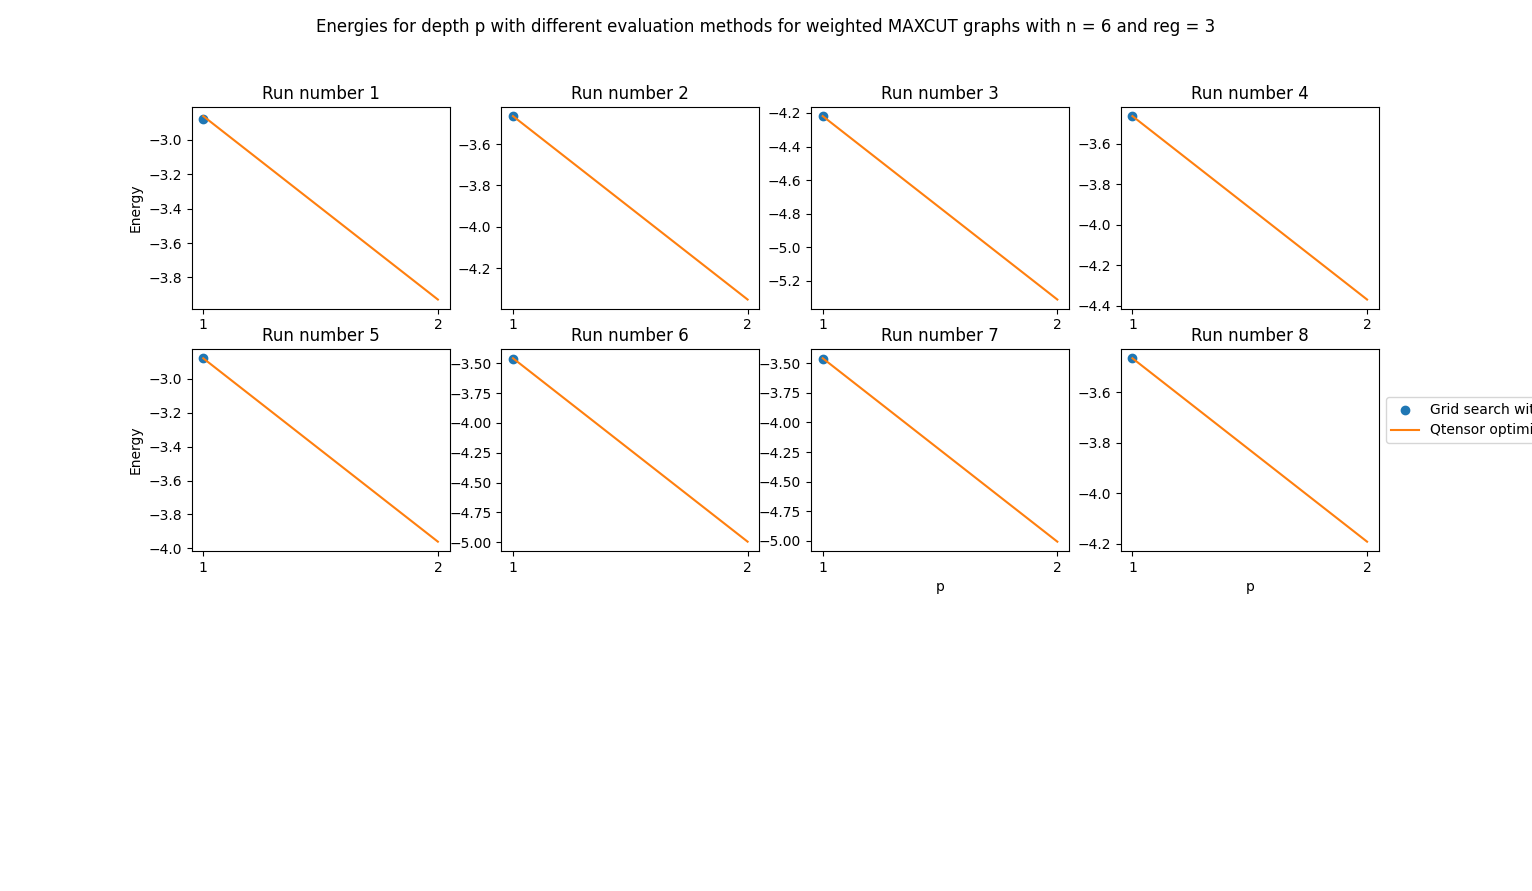
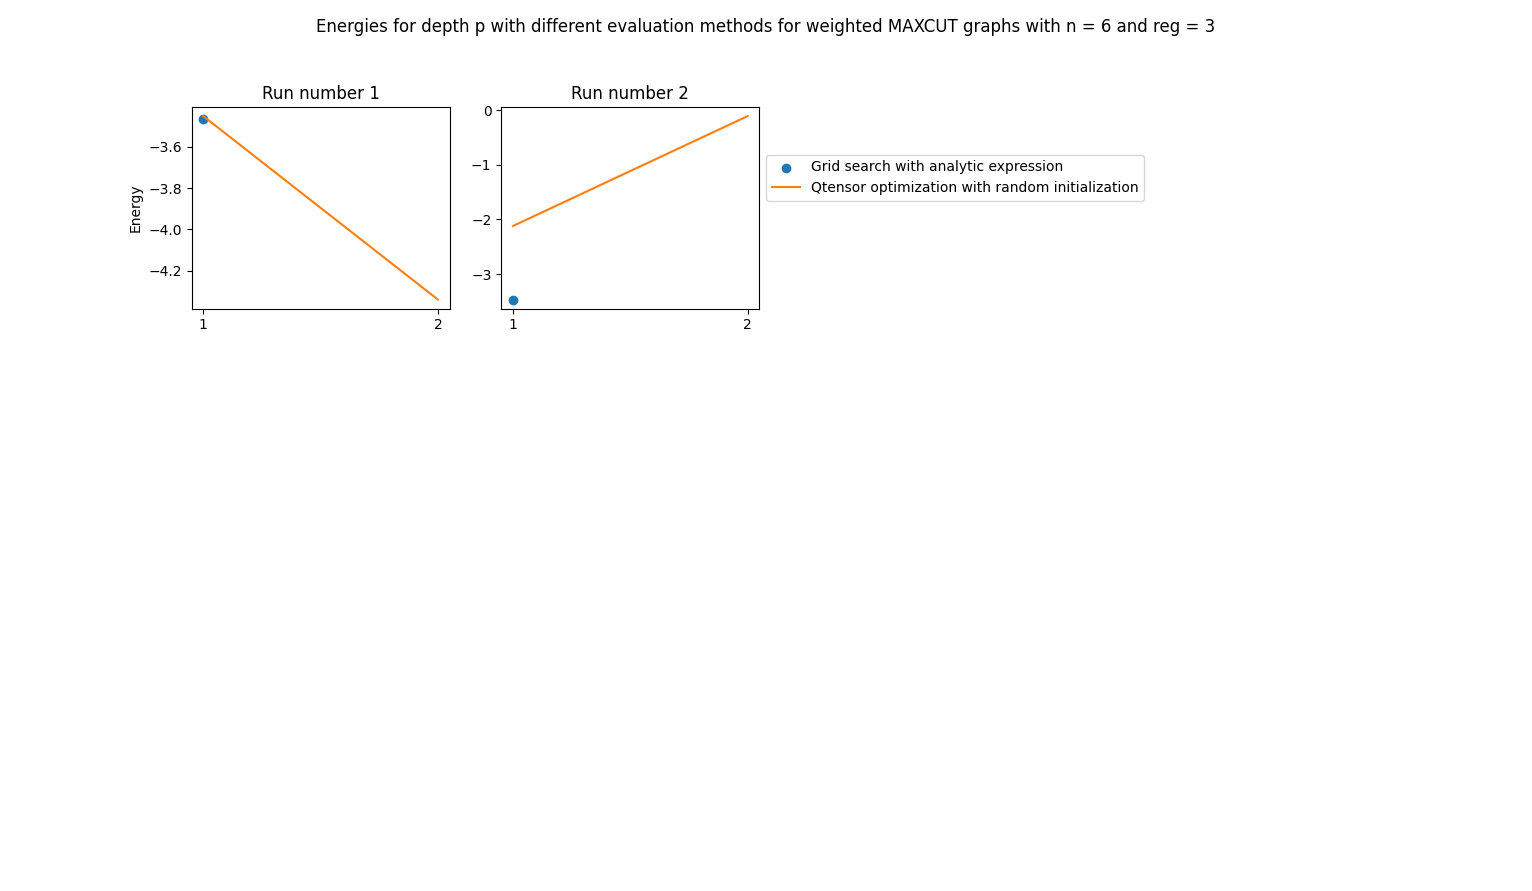
implement optimization stop

diff --git a/Calculating_Expectation_Values.py b/Calculating_Expectation_Values.py
@@ -4,6 +4,7 @@ import itertools as it
 import copy
 from scipy.optimize import fsolve
 import qtensor
+import json
 import torch
 import random
 
@@ -641,18 +642,29 @@ class QtensorQAOAExpectationValuesMAXCUT(ExpectationValues):
 class QtensorQAOAExpectationValuesQUBO(ExpectationValues):
     """Calculation of expectation values via tensor network contraction using Qtensor"""
 
-    def __init__(self, problem, p, pbar=True, gamma=None, beta=None, backend=qtensor.contraction_backends.TorchBackend(), ordering_algo='greedy'):
+    def __init__(self, problem, p, pbar=True, gamma=None, beta=None, initialization='random', regularity=3, opt=torch.optim.RMSprop, opt_kwargs=dict(lr=0.001), backend=qtensor.contraction_backends.TorchBackend(), ordering_algo='greedy'):
         super().__init__(problem)
         random.seed()
 
-        if gamma == None:
-            #gamma=[0.1] * p
-            gamma=[random.uniform(0, 0.5)]*p
+        if initialization=='fixed_angles_optimization':
+            with open('angles_regular_graphs.json', 'r') as file:
+                data = json.load(file)
 
-        if beta == None:
-            #beta=[0.1] * p
-            beta=[random.uniform(0, 0.5)]*p
+            gamma, beta = data[f"{regularity}"][f"{p}"]["gamma"], data[f"{regularity}"][f"{p}"]["beta"]
+            gamma, beta = [value/(-2*np.pi) for value in gamma], [value/(2*np.pi) for value in beta]
+            print('is working')
 
+        else:
+            if gamma == None:
+                #gamma=[0.1] * p
+                gamma=[random.uniform(0, 0.5)]*p
+
+            if beta == None:
+                #beta=[0.1] * p
+                beta=[random.uniform(0, 0.5)]*p
+
+        self.opt = opt
+        self.opt_kwargs = opt_kwargs
         self.pbar=pbar
         self.p = p
         self.backend = backend
@@ -737,9 +749,9 @@ class QtensorQAOAExpectationValuesQUBO(ExpectationValues):
         return max_expect_val_location, max_expect_val_sign, max_expect_val
     
 
-    def optimize(self, steps=50, Opt = torch.optim.RMSprop, opt_kwargs=dict(), **kwargs):
+    def optimize(self, steps=50, **kwargs):
         random.seed()
-        opt = Opt(params=(self.gamma, self.beta) , **opt_kwargs)
+        opt = self.opt(params=(self.gamma, self.beta) , **self.opt_kwargs)
         self.peos = self.energy_peo()
         self.expect_val_dict = {}
         max_expect_val_location = None
@@ -757,17 +769,27 @@ class QtensorQAOAExpectationValuesQUBO(ExpectationValues):
         else:
             _pbar = None
 
+        counter = 0
         for i in range(self.steps):
             self.energy_loss()
 
             opt.zero_grad()
             self.loss.backward()
             opt.step()
-
-            self.losses.append(self.loss.detach().numpy().data)
+            
+            self.losses.append(float(self.loss))
+            #self.losses.append(self.loss.detach().numpy().data)
             self.param_history.append([x.detach().numpy().copy() for x in (self.gamma, self.beta)])
             if self.pbar:
                 _pbar.update(1)
+
+            if i>1:
+                if abs((self.losses[-1]-self.losses[-2])/self.losses[-1]) < 0.0005:
+                    counter += 1
+                    if counter == 5:
+                        break
+                else:
+                    counter == 0
         
         max_expect_val_location, max_expect_val_sign, max_expect_val = self.create_expect_val_dict()
         self.energy = self.loss

diff --git a/Experiments/MAXCUT_RQAOA/test_run.py b/Experiments/MAXCUT_RQAOA/test_run.py
@@ -30,12 +30,13 @@ from RQAOA import RQAOA
 import torch.multiprocessing as mp
 from time import time
 
-def execute_RQAOA_single_instance(n, p):
+def execute_RQAOA_single_instance(n, p, run):
     reg = 3
     seed = 666
-    G = nx.random_regular_graph(reg, n, seed=seed)
+    random.seed()
+    G = nx.random_regular_graph(reg, n)
     problem = Generator.MAXCUT(G)
-    expectation_values_qtensor = QtensorQAOAExpectationValuesQUBO(problem, p)
+    expectation_values_qtensor = QtensorQAOAExpectationValuesQUBO(problem, p, initialization='fixed_angle_initialization', opt=torch.optim.SGD, opt_kwargs=dict(lr=0.0001))
     RQAOA_qtensor = RQAOA(expectation_values_qtensor, 3, type_of_problem="MAXCUT")
     time_start = time()
     cuts_qtensor, solution_qtensor = RQAOA_qtensor.execute()
@@ -48,7 +49,7 @@ def execute_RQAOA_single_instance(n, p):
         RQAOA_single = RQAOA(expectation_values_single, 3, type_of_problem="MAXCUT")
         cuts_single, solution_single = RQAOA_single.execute()
 
-    f = open(f"results_test_run_n_{n}_p_{p}.txt", "w+")
+    f = open(f"results_test_run_{run}_n_{n}_p_{p}.txt", "w+")
     f.write(f"\nRequired time in seconds for RQAOA: {required_time}")
     f.write(f"\nRequired time in minutes for RQAOA: {required_time/60}")
     f.write(f"\nRequired time in hours for RQAOA: {required_time/3600}")
@@ -61,11 +62,12 @@ def execute_RQAOA_single_instance(n, p):
 
     return cuts_qtensor, solution_qtensor
 
-def execute_RQAOA_multiple_instances(ns, ps):
+def execute_RQAOA_multiple_instances(ns, ps, num_runs):
     arguments_list = []
     for n in ns:
         for p in ps: 
-            arguments_list.append((n, p))
+            for run in range(num_runs):
+                arguments_list.append((n, p, run))
 
     num_processes = len(arguments_list)
     pool = mp.Pool(num_processes)
@@ -75,10 +77,11 @@ def execute_RQAOA_multiple_instances(ns, ps):
         
 if __name__ == '__main__':
     reg = 3
-    ns = [60, 80, 100, 120, 140, 160, 180, 200]
+    ns = [6, 8]#[60, 80, 100, 120, 140, 160, 180, 200]
     seed = 666
-    ps= [1, 2, 3]
+    ps= [1, 2]#, 3]
+    num_runs = 2
     
-    execute_RQAOA_multiple_instances(ns, ps)
+    execute_RQAOA_multiple_instances(ns, ps, num_runs)
 
     

diff --git a/Correlations_calculation/local/Help_file.py b/Correlations_calculation/local/Help_file.py
@@ -53,7 +53,7 @@ def calculate_correlations_single_instance(reg, n, ps, run):
     dictionary_p_random_init={}
     for p in ps:
         #random initialization
-        expectation_values_qtensor = QtensorQAOAExpectationValuesQUBO(problem, p)
+        expectation_values_qtensor = QtensorQAOAExpectationValuesQUBO(problem, p, initialization='fixed_angles_optimization', opt=torch.optim.SGD, opt_kwargs={'lr':0.0001})
         expectation_values_qtensor.optimize()
         energy_qtensor = float(expectation_values_qtensor.energy)
         energy_qtensor_random_init.append(energy_qtensor)
@@ -61,6 +61,14 @@ def calculate_correlations_single_instance(reg, n, ps, run):
         dictionary_sub = {}
         dictionary_sub['energy'] = energy_qtensor
         dictionary_sub['correlations'] = expectation_values_qtensor.expect_val_dict.copy()
+        dictionary_sub['losses'] = expectation_values_qtensor.losses.copy()
+
+        fig = plt.figure()
+        x=list(range(1, len(expectation_values_qtensor.losses)+1))
+        plt.plot(x, expectation_values_qtensor.losses)
+        fig.savefig(f'Energies_weighted_MAXCUT_graphs_reg_{reg}_n_{n}_version_{version}.png')
+        plt.close()
+        
         dictionary_p_random_init[f"p={p}"] = dictionary_sub
     dictionary['analytic_single_p'] = dictionary_single.copy()
     dictionary['random_init'] = dictionary_p_random_init.copy()

diff --git a/Parameter_optimisation/remote/scripts/MAXCUT_different_initializations_parallel_v1.py b/Parameter_optimisation/remote/scripts/MAXCUT_different_initializations_parallel_v1.py
@@ -141,8 +141,8 @@ def MAXCUT_QAOA_optimization_all_initializations(graphs, ns, regularity, max_p=3
                             individual_MAXCUT_QAOA_optimization_all_initializations(graph, n, regularity, max_p, optimizer, lr)
 
 if __name__ == '__main__':
-    graphs=[0] #, 1, 2, 3, 4, 5, 6, 7, 8, 9]
-    ns=[50]#, 100, 150, 200]
+    graphs=[0, 1, 2, 3, 4, 5, 6, 7, 8, 9]
+    ns=[200]#, 100, 150, 200]
     regularity=3
     #MAXCUT_QAOA_optimization_all_initializations(graphs, ns, regularity, parallel=False)
     MAXCUT_QAOA_optimization_individual_initializations(graphs, ns, regularity, max_p=4, parallel=False)

diff --git a/Correlations_calculation/local/Correlations_calculator_MAXCUT_new.py b/Correlations_calculation/local/Correlations_calculator_MAXCUT_new.py
@@ -120,11 +120,11 @@ def calculate_correlations_multiple_runs(ns, ps, num_runs, parallel = False):
 if __name__ == '__main__':
     version=1
     regs = [3] #, 4]
-    ns = [100]#[50, 100, 150, 200]
+    ns = [50]#[50, 100, 150, 200]
     seed = 666
     #G = nx.random_geometric_graph(30, 0.5)
     #G = nx.gnp_random_graph(n, 0.5, seed = seed)
-    num_runs=10
-    ps=[1, 2, 3]
+    num_runs=1
+    ps=[1, 2]#, 3]
 
-    calculate_correlations_multiple_runs(regs, ns, ps, num_runs, version, parallel=True)
+    calculate_correlations_multiple_runs(regs, ns, ps, num_runs, version, parallel=False)
